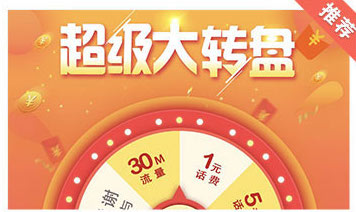
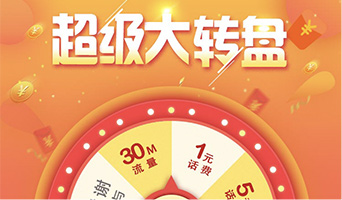
02-23

diff --git a/src/views/createProject/index.vue b/src/views/createProject/index.vue
@@ -28,11 +28,14 @@
         <el-row :gutter="20">
           <el-col :span="6" v-for="(item, index) in lotteryData" :key="index">
              <el-card>
-              <img :src="'/static/create/' + item.type + '.jpg' " class="image">
+              <div class="reco">
+                <img :src="'/static/create/' + item.type + '.jpg' " class="image">
+                <img class="reco-img" src="/static/create/reco.png">
+              </div>
               <div>
                 <div class="bottom clearfix">
                   <span class="re-name">{{ item.text }}</span>
-                  <el-button type="primary" class="create-btn fr" @click="openModel(item)">马上创建</el-button>
+                  <el-button  type="primary" class="create-btn fr" @click="openModel(item)">马上创建</el-button>
                 </div>
               </div>
             </el-card>
@@ -165,11 +168,19 @@ export default {
 .re-classify
   padding: 20px 0
 .re-name
-  font-size: 13px;
-  color: #999;
+  font-size: 13px
+  color: #999
+  margin-left:8px
 .image
   width: 100%
   height:101px
   display: block
+.reco
+  position:relative
+  .reco-img
+    position :absolute
+    width:40px
+    top:-10px
+    right:-10px
 </style>
 

diff --git a/src/views/layout/components/Sidebar/SidebarItem.vue b/src/views/layout/components/Sidebar/SidebarItem.vue
@@ -7,6 +7,8 @@
         v-if="item.children && item.children.length>=1" >
         <router-link
         class="side-link"
+        @click.native="setIndex(index)"
+        :class="{ active: index===jsIndex}"
         router-link-active
         :to="item.path+'/'+item.children[0].path" 
        >
@@ -43,7 +45,7 @@ export default {
   data () {
     return {
       index:0,
-      isActive:false
+      jsIndex:0
     }
   },
   props: {
@@ -54,6 +56,9 @@ export default {
   created () {
   },
   methods:{
+    setIndex(index){
+      this.jsIndex = index
+    }
   },
   components:{
     svgIcon
@@ -74,6 +79,7 @@ export default {
     width:100%
     height:100%
     transition:all 1s
+    position:relative
   .side-link:hover
     background:rgba(0,0,0,0.2)
   .router-link-active
@@ -81,5 +87,14 @@ export default {
   .side-link svg
       position:relative
       top:2px
-    // vertical-align :middle
+  .side-link.active:after
+    content:''
+    position:absolute
+    top:15px
+    right:0
+    width:0
+    height:0
+    border-top:7px solid transparent
+    border-bottom:7px solid transparent
+    border-right:7px solid #fff;
 </style>

diff --git a/src/views/index/example/Login.vue b/src/views/index/example/Login.vue
@@ -2,7 +2,7 @@
 <modal>
   <div slot="header">
        <span class="fl">登录</span>
-        <span class="fr" @click="close">X</span>
+        <span class="fr cursor" @click="close">X</span>
   </div>
   <div class="" slot="body">
     <el-form status-icon :model="ruleForm" :rules="rules"  ref="ruleForm"  label-width="80px" label-position ="left">

diff --git a/src/views/management/index.vue b/src/views/management/index.vue
@@ -1,6 +1,6 @@
 <template>
   <div class="container">
-    <div class="verify-header">活动管理</div>
+    <div class="verify-header">>活动管理</div>
     <div class="verify-content" style="padding:30px 5%">
       <el-table
         fit highlight-current-row
